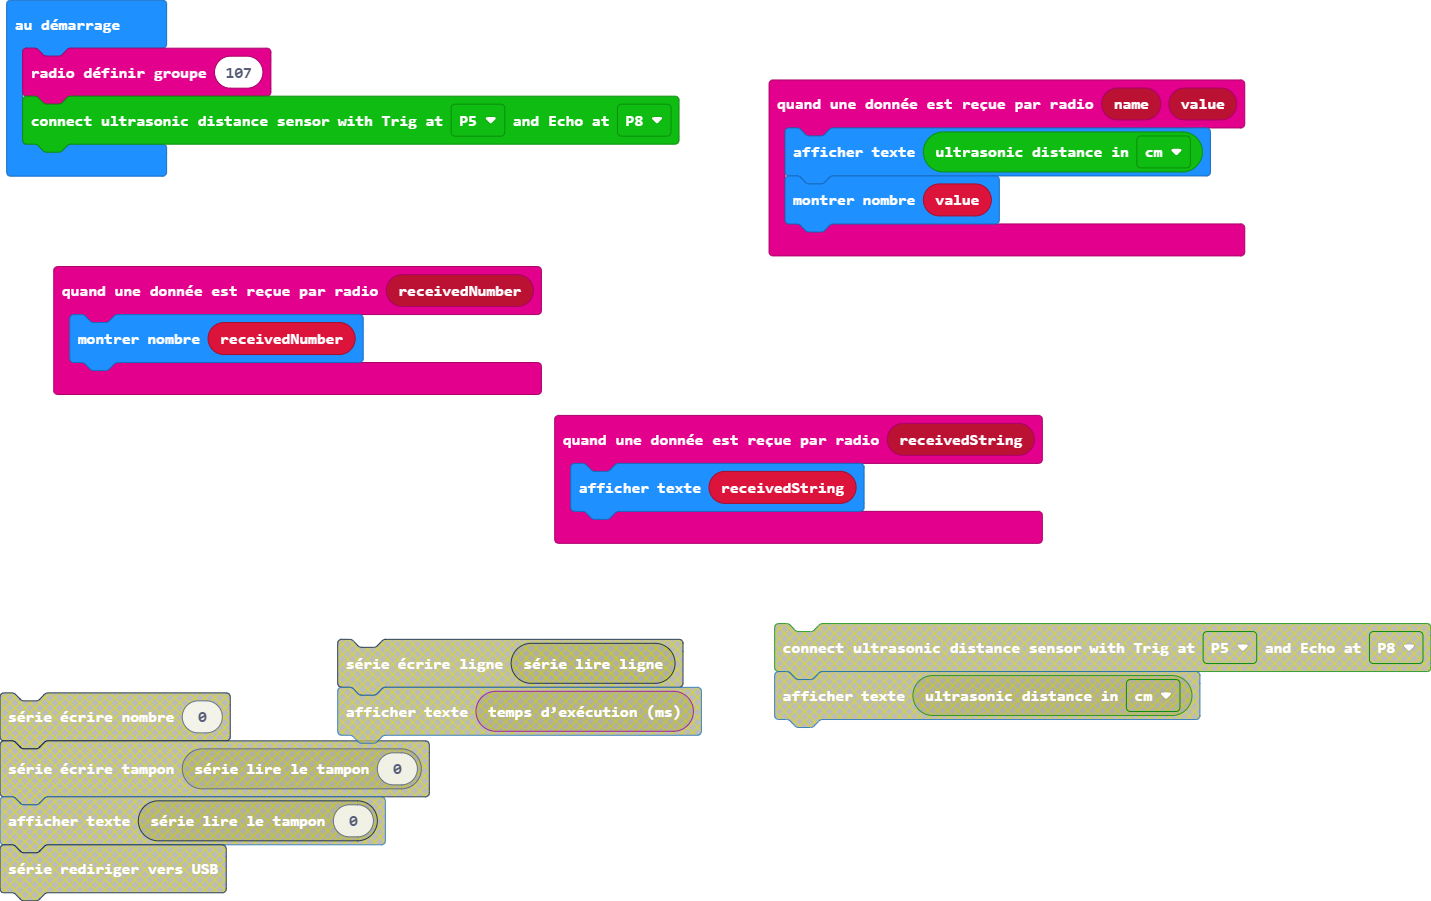
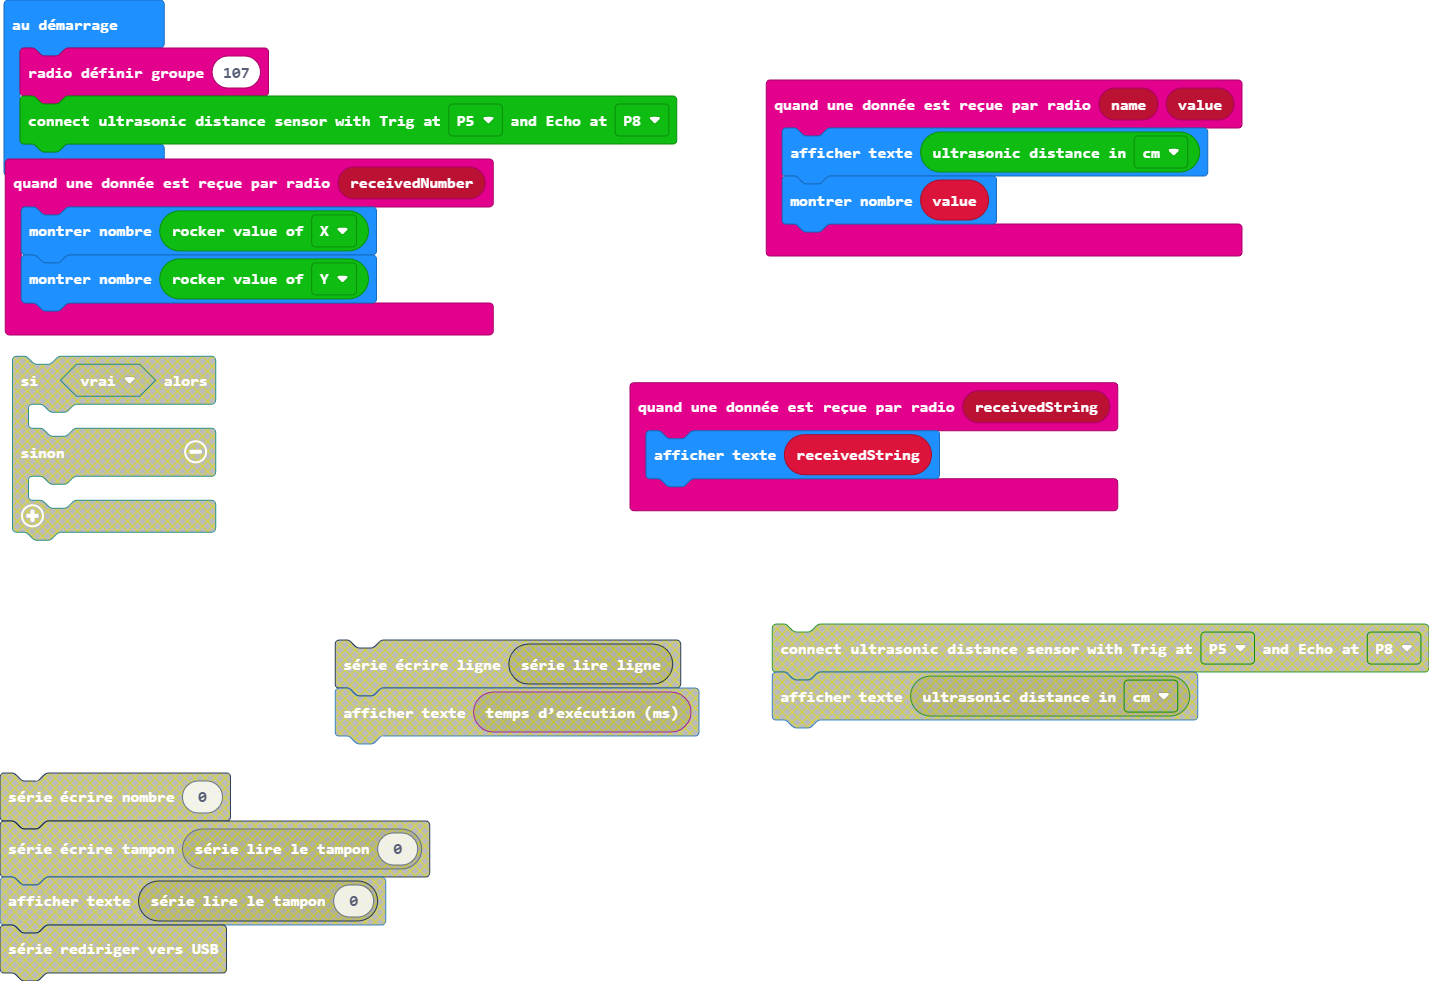
Mise à jour pxt.json, main.blocks, main.ts

diff --git a/main.ts b/main.ts
@@ -1,5 +1,6 @@
 radio.onReceivedNumber(function (receivedNumber) {
-    basic.showNumber(receivedNumber)
+    basic.showNumber(joystickbit.getRockerValue(joystickbit.rockerType.X))
+    basic.showNumber(joystickbit.getRockerValue(joystickbit.rockerType.Y))
 })
 radio.onReceivedString(function (receivedString) {
     basic.showString(receivedString)
